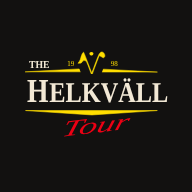
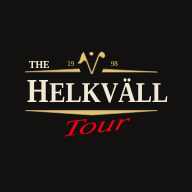
v0.32.0: All-time → Minnen, loggan i appens guld, länktexten för minnen
Claude-Session: https://claude.ai/code/session_011XiuGD8GpsNi3A2N7oTmnv

Changed region(s): [[0.125, 0.25, 0.5625, 0.4062], [0.125, 0.5625, 0.8125, 0.625], [0.5312, 0.3125, 0.8125, 0.4062]]

diff --git a/minnen.js b/minnen.js
@@ -1,7 +1,7 @@
 // Minnesvärda moment: kommentarer för en deltävling, en boll eller en spelares runda (tabellen kommentar, migrering 21).
 // Admin och markör kan alltid skriva, ändra och ta bort – även i avslutade THT. Alla kan läsa.
 // Används i Mata in (deltävlingens bollar), på årssidan under varje deltävling, på scorekortet och i årsrapporten.
-import { api, write, esc, arAdmin, arMarkor } from './lib.js?v=0.31.0';
+import { api, allaRader, write, esc, arAdmin, arMarkor } from './lib.js?v=0.32.0';
 
 export const kanSkriva = () => arAdmin() || arMarkor();
 const RUNDOR = 'id,deltavling_id,person_id,boll_nr,person(fornamn)';
@@ -19,7 +19,7 @@ export async function hamtaMinnen(dids, { fresh = false } = {}) {
 
 // Vem/vad kommentaren gäller
 export function vem(k, rundor) {
-  if (k.runda_id) { const r = rundor.find((x) => x.id === k.runda_id); return (r?.person?.fornamn ?? 'Spelare') + (k.fran_lank ? ' själv' : ''); }
+  if (k.runda_id) { const r = rundor.find((x) => x.id === k.runda_id); return (r?.person?.fornamn ?? 'Spelare') + (k.fran_lank ? ' minns' : ''); }
   if (k.boll_nr != null) return `Boll ${k.boll_nr}`;
   return 'Alla';
 }
@@ -95,4 +95,36 @@ export async function minnenWidget(el, did, data = null, { onAndrat } = {}) {
   }
   rita();
   return { valj: (v) => { const f = el.querySelector('.mm-form'); if (f) { f.vem.value = v; f.text.focus(); } } };
+}
+
+// ---------- All-time → Minnen: krönikor och minnesvärda moment år för år ----------
+const kronika = (t) => t.trim().split(/\n\s*\n/).map((st) => `<p>${esc(st).replace(/\n/g, '<br>')}</p>`).join('');
+let nyastForst = false;
+export async function minnenAlltime(el) {
+  const [thts, delt, kom] = await Promise.all([
+    api('tht?select=nr,artal,ort,kronika&nr=gt.0&order=artal'),
+    api('deltavling?select=id,tht_nr,ordning,banversion(bana(namn))&tht_nr=gt.0&order=tht_nr,ordning'),
+    allaRader('kommentar?select=id,deltavling_id,runda_id,boll_nr,text,skapad,fran_lank&order=skapad,id'),
+  ]);
+  const rid = [...new Set(kom.map((k) => k.runda_id).filter(Boolean))];
+  const rundor = rid.length ? await api(`runda?id=in.(${rid.join(',')})&select=${RUNDOR}`) : [];
+  const ar = thts.map((t) => {
+    const ds = delt.filter((d) => d.tht_nr === t.nr).map((d) => ({ ...d, kom: kom.filter((k) => k.deltavling_id === d.id) })).filter((d) => d.kom.length);
+    return { ...t, ds, n: ds.reduce((a, d) => a + d.kom.length, 0) };
+  }).filter((t) => t.n || t.kronika?.trim());
+  const rita = () => {
+    const lista = nyastForst ? ar.slice().reverse() : ar;
+    const tot = ar.reduce((a, t) => a + t.n, 0);
+    el.innerHTML = `
+      <div class="seg" role="group" aria-label="Ordning"><button type="button" data-o="0" class="${nyastForst ? '' : 'on'}">Äldst först</button><button type="button" data-o="1" class="${nyastForst ? 'on' : ''}">Nyast först</button></div>
+      <p class="hint">${((k) => `${k} ${k === 1 ? 'krönika' : 'krönikor'}`)(ar.filter((t) => t.kronika?.trim()).length)} och ${tot} minnesvärda moment. Tryck på ett år för att fälla ut.</p>
+      ${lista.map((t) => `<details class="card mm-ar-alla">
+        <summary><strong>${t.artal}</strong> · ${esc(t.ort)} <span class="muted">(${t.n}${t.kronika?.trim() ? ' + krönika' : ''})</span></summary>
+        ${t.kronika?.trim() ? `<h3>Krönika</h3><div class="kronika">${kronika(t.kronika)}</div>` : ''}
+        ${t.ds.map((d) => `<h3>R${d.ordning}${d.banversion?.bana?.namn ? ' · ' + esc(d.banversion.bana.namn) : ''} <span class="muted">(${d.kom.length})</span></h3>${minnenLista(d.kom, rundor)}`).join('')}
+        <p><a class="lank-pil" href="#/ar/${t.artal}">Årssidan ${t.artal} ›</a></p>
+      </details>`).join('') || '<p class="muted">Inga krönikor eller minnesvärda moment ännu.</p>'}`;
+    el.querySelectorAll('[data-o]').forEach((b) => b.onclick = () => { nyastForst = b.dataset.o === '1'; rita(); });
+  };
+  rita();
 }

diff --git a/betyg.js b/betyg.js
@@ -1,7 +1,7 @@
 // Banbetyg via personlig länk (#/betyg/<kod>) – ingen inloggning, en länk per spelare för alla år.
 // Databasen kontrollerar koden och tar bara emot betyg på banor som spelaren spelade respektive THT.
 // Här skriver spelaren också ETT eget minnesvärt moment per deltävling hen spelat (bara om sig själv, migrering 23).
-import { rpc, esc } from './lib.js?v=0.31.0';
+import { rpc, esc } from './lib.js?v=0.32.0';
 
 const app = document.getElementById('app');
 
@@ -23,9 +23,9 @@ export async function renderBetygLank(kod) {
   const minneOrig = { ...minne };
   const minnenFor = (t) => (minnen ?? []).filter((m) => m.tht_nr === t.tht_nr).sort((a, b) => a.ordning - b.ordning);
   const minnesRutor = (t) => { const ms = minnenFor(t); return ms.length ? `
-        <div class="mm-lank"><h3>Ditt minnesvärda moment</h3><p class="hint">Något du minns från rundan – ett per deltävling, om dig själv.</p>
+        <div class="mm-lank"><h3>Det du minns</h3><p class="hint">Ett minnesvärt moment per deltävling – om dig själv eller någon annan i gänget.</p>
         ${ms.map((m) => `<label class="mm-lank-rad"><span class="meta">R${m.ordning}${m.bana ? ' · ' + esc(m.bana) : ''}</span>
-          <textarea rows="2" maxlength="500" data-did="${m.deltavling_id}" placeholder="t.ex. min första birdie på THT">${esc(m.text ?? '')}</textarea></label>`).join('')}</div>` : ''; };
+          <textarea rows="2" maxlength="500" data-did="${m.deltavling_id}" placeholder="t.ex. Robert sänkte bunkerslaget på 17:an">${esc(m.text ?? '')}</textarea></label>`).join('')}</div>` : ''; };
 
   const rad = (t, b) => `
     <div class="round betyg-rad">
@@ -37,7 +37,7 @@ export async function renderBetygLank(kod) {
 
   app.innerHTML = `
     <h1>Banbetyg och minnen</h1>
-    <div class="card"><p>Hej ${esc(info.fornamn)}! Ge banorna du har spelat på THT ett betyg från 1 till 5 – <strong>5 = bäst</strong>. Betyg du redan har satt syns med guldstjärnor och kan ändras. Tryck på samma stjärna igen för att ta bort ett betyg.</p><p>Under varje år kan du också skriva ett <strong>minnesvärt moment</strong> för varje deltävling du spelade. Det syns på årssidan och på ditt scorekort.</p></div>
+    <div class="card"><p>Hej ${esc(info.fornamn)}! Ge banorna du har spelat på THT ett betyg från 1 till 5 – <strong>5 = bäst</strong>. Betyg du redan har satt syns med guldstjärnor och kan ändras. Tryck på samma stjärna igen för att ta bort ett betyg.</p><p>Under varje år kan du också skriva ett <strong>minnesvärt moment</strong> för varje deltävling du spelade – om dig själv eller om någon annan. Det syns på årssidan och under All-time → Minnen.</p></div>
     ${info.tht.map((t, i) => `
       <details class="betyg-ar" ${i < 2 ? 'open' : ''}>
         <summary><strong>THT ${t.tht_nr} · ${esc(t.ort)} ${t.artal}</strong> <span class="muted" data-antal="${t.tht_nr}"></span></summary>

diff --git a/app.js b/app.js
@@ -1,20 +1,20 @@
-// THT golfapp (v0.31.0) – statistik och inmatning.
+// THT golfapp (v0.32.0) – statistik och inmatning.
 // Statistik läses direkt från Supabase-vyerna utan inloggning. Inmatning kräver THT-koden.
 
-import { api, allaRader, esc, fmt, datum, nyNav, nuNav, aktuell, tolkaDatum, uppdateraRoll } from './lib.js?v=0.31.0';
-import { renderMata } from './mata.js?v=0.31.0';
-import { renderAdmin } from './admin.js?v=0.31.0';
-import { renderSpelare } from './spelare.js?v=0.31.0';
-import { renderKarta, miniKarta } from './karta.js?v=0.31.0';
-import { renderBana, banTopplista, banLista, stjarnor } from './bana.js?v=0.31.0';
-import { renderBetygLank } from './betyg.js?v=0.31.0';
-import { renderNyheter } from './nyheter.js?v=0.31.0';
-import { renderRunda } from './runda.js?v=0.31.0';
-import './kollaps.js?v=0.31.0';
-import { renderRapport } from './rapport.js?v=0.31.0';
-import { renderDuell } from './inbordes.js?v=0.31.0';
-import { hamtaMinnen, minnenWidget, kanSkriva } from './minnen.js?v=0.31.0';
-import { STAT_FLIKAR, renderStatFlik, arsStatistik, renderHal } from './statistik.js?v=0.31.0';
+import { api, allaRader, esc, fmt, datum, nyNav, nuNav, aktuell, tolkaDatum, uppdateraRoll } from './lib.js?v=0.32.0';
+import { renderMata } from './mata.js?v=0.32.0';
+import { renderAdmin } from './admin.js?v=0.32.0';
+import { renderSpelare } from './spelare.js?v=0.32.0';
+import { renderKarta, miniKarta } from './karta.js?v=0.32.0';
+import { renderBana, banTopplista, banLista, stjarnor } from './bana.js?v=0.32.0';
+import { renderBetygLank } from './betyg.js?v=0.32.0';
+import { renderNyheter } from './nyheter.js?v=0.32.0';
+import { renderRunda } from './runda.js?v=0.32.0';
+import './kollaps.js?v=0.32.0';
+import { renderRapport } from './rapport.js?v=0.32.0';
+import { renderDuell } from './inbordes.js?v=0.32.0';
+import { hamtaMinnen, minnenWidget, kanSkriva } from './minnen.js?v=0.32.0';
+import { STAT_FLIKAR, renderStatFlik, arsStatistik, renderHal } from './statistik.js?v=0.32.0';
 
 const SERIES = ['#3987e5', '#d95926', '#199e70'];
 const MUTED = 'rgba(242, 232, 213, 0.22)';
@@ -394,7 +394,7 @@ async function renderStart(navId) {
 
   app.innerHTML = `
     <section class="hero">
-      <img src="logo.svg" alt="" class="hero-logo" aria-hidden="true">
+      <img src="logo.svg?v=0.32.0" alt="" class="hero-logo" aria-hidden="true">
       <h1 class="sr-only">The Helkväll Tour</h1>
       <p class="hero-sub">Sedan ${ar1}${senast ? ` · ${senast.nr} upplagor` : ''}</p>
     </section>

diff --git a/rapport.js b/rapport.js
@@ -1,7 +1,7 @@
 // Årsrapport (#/rapport/<år>): allt om en THT på en sida i stil med 2016-rapporten – går att skriva ut eller spara som PDF.
-import { api, esc, fmt, nuNav, aktuell } from './lib.js?v=0.31.0';
-import { halvinstTabell, fordelningTabell, parTabell } from './statistik.js?v=0.31.0';
-import { hamtaMinnen, vem } from './minnen.js?v=0.31.0';
+import { api, esc, fmt, nuNav, aktuell } from './lib.js?v=0.32.0';
+import { halvinstTabell, fordelningTabell, parTabell } from './statistik.js?v=0.32.0';
+import { hamtaMinnen, vem } from './minnen.js?v=0.32.0';
 
 const app = document.getElementById('app');
 const FARGER = ['#3987e5', '#d95926', '#199e70', '#e3c278', '#a35cc8', '#d4417c', '#5bb7c9', '#8fa83a', '#c98a3e', '#7a86d6', '#b5b0a6', '#e07a5f'];
@@ -76,7 +76,7 @@ export async function renderRapport(artal) {
     <div class="rapport-knappar no-print"><a class="back" href="#/ar/${artal}">‹ ${artal}</a><button class="btn" type="button" id="skrivut">Skriv ut eller spara som PDF</button></div>
     <article class="rapport">
       <header class="rapport-huvud">
-        <img src="logo.svg" alt="The Helkväll Tour" class="rapport-logo">
+        <img src="logo.svg?v=0.32.0" alt="The Helkväll Tour" class="rapport-logo">
         <h1>THT ${nr} – ${esc(tht.ort)} ${artal}</h1>
         <p class="sub">${period}${delt.length ? ` · ${delt.length} deltävlingar` : ''}${res.length ? ` · ${res.length} spelare` : ''}</p>
         ${vinnare && tht.klar ? `<p class="rapport-vinnare">Vinnare: <strong>${esc(vinnare.fornamn)}</strong> med ${fmt(vinnare.poang)} poäng</p>` : tht.klar ? '' : '<p class="rapport-vinnare">THT:n pågår – ingen vinnare ännu</p>'}

diff --git a/index.html b/index.html
@@ -5,19 +5,19 @@
   <meta name="viewport" content="width=device-width, initial-scale=1, viewport-fit=cover">
   <meta name="theme-color" content="#121110">
   <title>THT – The Helkväll Tour</title>
-  <link rel="icon" href="logo.svg" type="image/svg+xml">
+  <link rel="icon" href="logo.svg?v=0.32.0" type="image/svg+xml">
   <link rel="manifest" href="manifest.webmanifest">
   <link rel="apple-touch-icon" href="apple-touch-icon.png">
   <meta name="apple-mobile-web-app-capable" content="yes">
   <meta name="mobile-web-app-capable" content="yes">
   <meta name="apple-mobile-web-app-status-bar-style" content="black">
   <meta name="apple-mobile-web-app-title" content="THT">
-  <link rel="stylesheet" href="style.css?v=0.31.0">
+  <link rel="stylesheet" href="style.css?v=0.32.0">
 </head>
 <body>
   <header class="topbar">
     <a href="#/" class="brand" aria-label="Till startsidan">
-      <img src="logo.svg" alt="The Helkväll Tour" class="logo">
+      <img src="logo.svg?v=0.32.0" alt="The Helkväll Tour" class="logo">
     </a>
     <nav class="tabs" aria-label="Huvudmeny">
       <a href="#/leaderboard" data-route="leaderboard">Leaderboard</a>
@@ -34,10 +34,10 @@
   </main>
 
   <footer class="foot">
-    <a href="#/admin">Admin</a> · <span id="version">v0.31.0</span> · data från Supabase
+    <a href="#/admin">Admin</a> · <span id="version">v0.32.0</span> · data från Supabase
   </footer>
 
-  <script type="module" src="app.js?v=0.31.0"></script>
+  <script type="module" src="app.js?v=0.32.0"></script>
   <script>if ('serviceWorker' in navigator) navigator.serviceWorker.register('sw.js').catch(() => {});</script>
 </body>
 </html>

diff --git a/statistik.js b/statistik.js
@@ -1,7 +1,8 @@
 // Statistik från 2016-rapporten: hålvinster, resultatfördelning, par 3/4/5, rekord och svåraste hålen.
 // Beräknas i databasvyerna v_stat_* (migrering 17) – här bara sammanställning och tabeller.
-import { api, allaRader, esc, fmt } from './lib.js?v=0.31.0';
-import { inbordesMatris } from './inbordes.js?v=0.31.0';
+import { api, allaRader, esc, fmt } from './lib.js?v=0.32.0';
+import { inbordesMatris } from './inbordes.js?v=0.32.0';
+import { minnenAlltime } from './minnen.js?v=0.32.0';
 
 const namnLank = (id, namn) => `<a class="namn" href="#/spelare/${id}">${esc(namn)}</a>`;
 const summa = (xs, f) => xs.reduce((a, x) => a + (Number(f(x)) || 0), 0);
@@ -156,6 +157,7 @@ export const STAT_FLIKAR = [
   { id: 'rekord', t: 'Rekord' },
   { id: 'hal', t: 'Hål' },
   { id: 'inbordes', t: 'Inbördes' },
+  { id: 'minnen', t: 'Minnen' },
 ];
 
 export async function renderStatFlik(flik, el) {
@@ -186,6 +188,7 @@ export async function renderStatFlik(flik, el) {
     return;
   }
   if (flik === 'inbordes') { await inbordesMatris(el); return; }
+  if (flik === 'minnen') { await minnenAlltime(el); return; }
   if (flik === 'rekord') { el.innerHTML = await rekordHtml(); return; }
   if (flik === 'hal') { el.innerHTML = await halHtml(); return; }
   if (flik === 'totalt') {

diff --git a/admin.js b/admin.js
@@ -1,11 +1,11 @@
 // Admin: grunddata som läggs upp sällan – spelare, banor, THT, priser och övernattningar.
-import { api, allaRader, write, isLoggedIn, arAdmin, arMarkor, logout, esc, nuNav, aktuell } from './lib.js?v=0.31.0';
-import { visaLogin } from './mata.js?v=0.31.0';
-import { renderBanor } from './admin-banor.js?v=0.31.0';
-import { renderTht } from './admin-tht.js?v=0.31.0';
-import { renderPriser } from './admin-priser.js?v=0.31.0';
-import { renderOvernattning } from './admin-overnattning.js?v=0.31.0';
-import { renderBanbetyg } from './admin-banbetyg.js?v=0.31.0';
+import { api, allaRader, write, isLoggedIn, arAdmin, arMarkor, logout, esc, nuNav, aktuell } from './lib.js?v=0.32.0';
+import { visaLogin } from './mata.js?v=0.32.0';
+import { renderBanor } from './admin-banor.js?v=0.32.0';
+import { renderTht } from './admin-tht.js?v=0.32.0';
+import { renderPriser } from './admin-priser.js?v=0.32.0';
+import { renderOvernattning } from './admin-overnattning.js?v=0.32.0';
+import { renderBanbetyg } from './admin-banbetyg.js?v=0.32.0';
 
 const app = document.getElementById('app');
 

diff --git a/nyheter.js b/nyheter.js
@@ -1,6 +1,6 @@
 // Nytt i appen: punktlistan per dag från Obsidian-anteckningen THT-nyheter
 // (görs om till nyheter.json med skript/nyheter.py när anteckningen uppdateras).
-import { esc } from './lib.js?v=0.31.0';
+import { esc } from './lib.js?v=0.32.0';
 
 const app = document.getElementById('app');
 // **fet** → <strong>, versionen i slutet dämpas
@@ -10,7 +10,7 @@ const formatera = (t) => esc(t)
 
 export async function renderNyheter() {
   app.innerHTML = '<p class="muted center">Laddar …</p>';
-  const r = await fetch('nyheter.json?v=0.31.0', { cache: 'no-cache' });
+  const r = await fetch('nyheter.json?v=0.32.0', { cache: 'no-cache' });
   if (!r.ok) throw new Error('Kunde inte läsa nyheterna');
   const dagar = await r.json();
   app.innerHTML = `

diff --git a/mata.js b/mata.js
@@ -1,8 +1,8 @@
 // Inmatning: välj deltävling → välj/skapa boll → mata in hål för hål (autospar).
-import { api, write, login, logout, isLoggedIn, arMarkor, arAdmin, esc, fmt, datum, poang, nuNav, aktuell } from './lib.js?v=0.31.0';
+import { api, write, login, logout, isLoggedIn, arMarkor, arAdmin, esc, fmt, datum, poang, nuNav, aktuell } from './lib.js?v=0.32.0';
 
-import { renderScorekort } from './scorekort.js?v=0.31.0';
-import { minnenWidget } from './minnen.js?v=0.31.0';
+import { renderScorekort } from './scorekort.js?v=0.32.0';
+import { minnenWidget } from './minnen.js?v=0.32.0';
 
 const app = document.getElementById('app');
 const pending = new Map(); // `${runda}-${hal}` -> {runda_id, hal_nr, slag, puttar} som inte sparats än

diff --git a/admin-banor.js b/admin-banor.js
@@ -1,8 +1,8 @@
 // Admin: banor. Lista → bana (namn, plats, versioner) → banversion (tee:er och 18 hål).
 // Inget tas bort (RLS tillåter inte delete här) – allt rättas genom att ändra.
-import { api, write, esc, nuNav, aktuell, tolkaDatum } from './lib.js?v=0.31.0';
-import { tolkaScorekort, kontrolleraHal } from './banparse.js?v=0.31.0';
-import { kartvaljare } from './karta.js?v=0.31.0';
+import { api, write, esc, nuNav, aktuell, tolkaDatum } from './lib.js?v=0.32.0';
+import { tolkaScorekort, kontrolleraHal } from './banparse.js?v=0.32.0';
+import { kartvaljare } from './karta.js?v=0.32.0';
 
 const app = document.getElementById('app');
 const idag = () => new Date().toISOString().slice(0, 10);

diff --git a/inbordes.js b/inbordes.js
@@ -2,7 +2,7 @@
 // Ett möte = en deltävling där båda har en hel runda. Lika poäng = oavgjort. Beräknas i vyerna
 // v_inbordes och v_inbordes_summa (migrering 20). Tre vyer i appen: rutan på spelarsidan,
 // matrisen i All-time (#/alltime/inbordes) och duellsidan (#/duell/<a>/<b>).
-import { api, allaRader, esc, fmt, nuNav, aktuell } from './lib.js?v=0.31.0';
+import { api, allaRader, esc, fmt, nuNav, aktuell } from './lib.js?v=0.32.0';
 
 const RAD = 'person_id,fornamn,mot_id,mot_fornamn,moten,vinster,oavgjort,forluster,vinster_slag,oavgjort_slag,forluster_slag,poang_diff,senast';
 const lage = { satt: 'poang', alla: false };            // Poäng/Slag och Alla spelare, delas mellan vyerna

diff --git a/bana.js b/bana.js
@@ -1,7 +1,7 @@
 // Bansida: en banas betyg, när den spelats, bästa rundor och hålen.
-import { api, esc, fmt, nuNav, aktuell } from './lib.js?v=0.31.0';
-import { punktKarta } from './karta.js?v=0.31.0';
-import { halStatistik } from './statistik.js?v=0.31.0';
+import { api, esc, fmt, nuNav, aktuell } from './lib.js?v=0.32.0';
+import { punktKarta } from './karta.js?v=0.32.0';
+import { halStatistik } from './statistik.js?v=0.32.0';
 
 const app = document.getElementById('app');
 const stjarnor = (v) => v == null ? '' : `<span class="stjarnor" aria-hidden="true" style="--v:${(v / 5) * 100}%">★★★★★</span>`;
